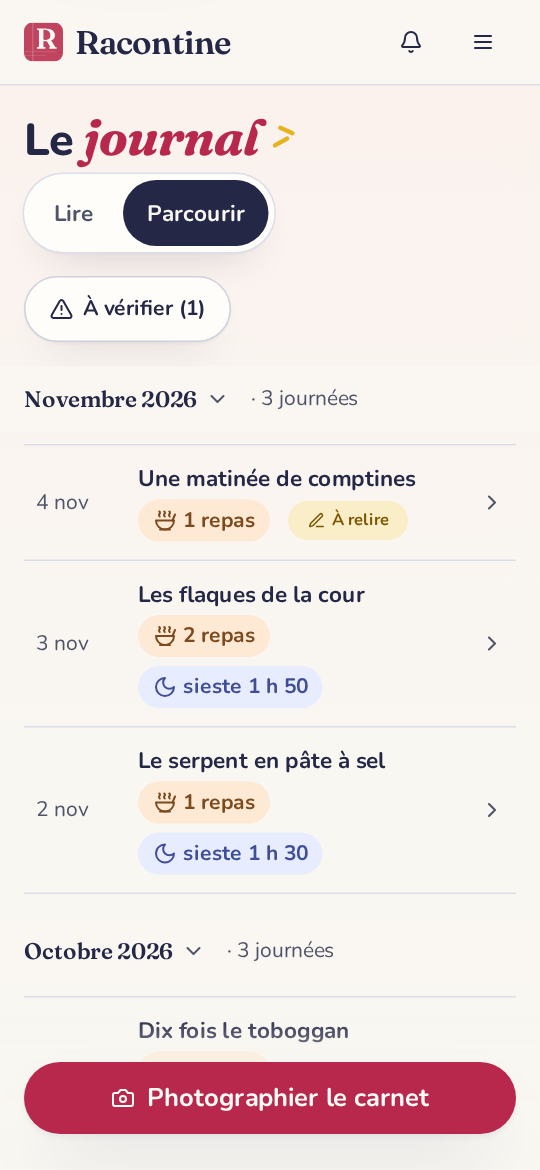
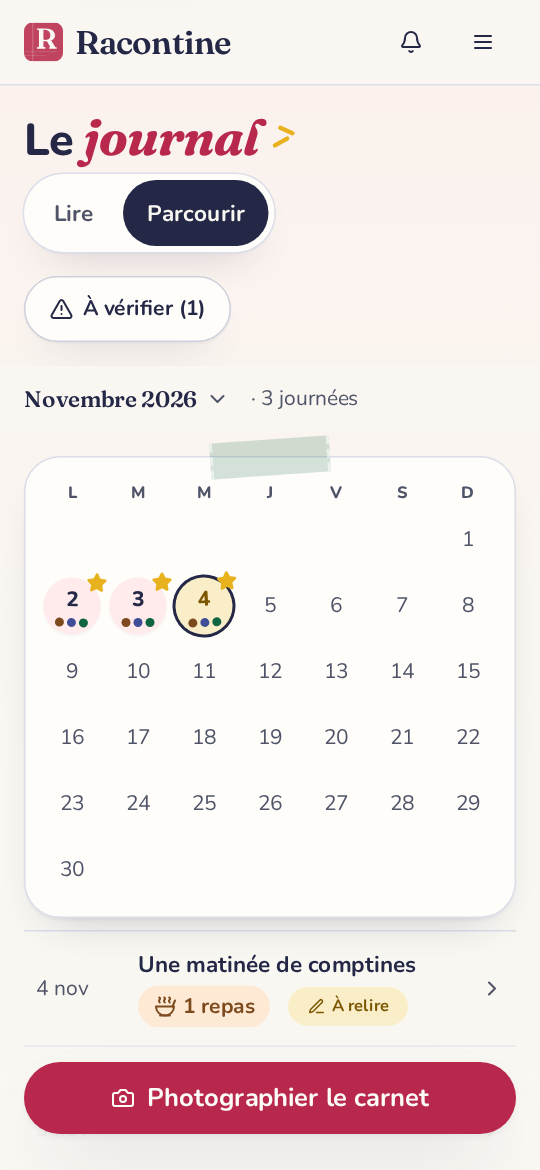
feat(journal): calendrier du mois en mode Parcourir (#142)
La maquette « carnet de souvenirs » proposait un calendrier pour
retrouver une journée d'un coup d'œil ; Parcourir n'avait qu'une liste.

- MonthCalendar sous l'en-tête collant de chaque mois, en mode Parcourir
  seulement : une case par journée racontée, lien direct vers la journée.
- Case groseille douce, ou fond à relire si la journée n'est pas publiée ;
  pastilles de la couleur des moments, étoile si temps fort, anneau
  groseille si non lue, compteur si plusieurs enfants le même jour.
- Libellé accessible complet par case (date, titres, nouveau, à relire) ;
  jours vides masqués aux lecteurs d'écran.
- DESIGN.md, README et capture Parcourir mis à jour.

Vérifié en local avec données fictives : gestionnaire et lectrice, clair
et sombre, clic sur un jour qui ouvre la bonne journée.

diff --git a/web/src/features/journal/MonthCalendar.tsx b/web/src/features/journal/MonthCalendar.tsx
@@ -1,0 +1,144 @@
+import { useState } from "react";
+import { Link } from "react-router-dom";
+import { Star } from "lucide-react";
+import type { Entry, ItemType } from "@/lib/types";
+import { capitalize, fr, fullDate } from "@/lib/format";
+import { ITEM_KINDS } from "@/lib/items";
+import { ITEM_DOT } from "@/lib/ui";
+import { cn } from "@/lib/utils";
+import { isUnread } from "./EntryCard";
+
+const WEEKDAYS = ["L", "M", "M", "J", "V", "S", "D"];
+
+function pad(n: number): string {
+  return String(n).padStart(2, "0");
+}
+
+function typesOf(entries: Entry[]): ItemType[] {
+  const present = new Set(entries.flatMap((e) => e.items.map((i) => i.type)));
+  return ITEM_KINDS.map((k) => k.type).filter((t) => present.has(t));
+}
+
+function dayLabelFor(iso: string, entries: Entry[]): string {
+  const date = capitalize(fullDate(iso));
+  const titles = entries
+    .map((e) => (e.title ? fr(e.title) : "journée sans titre"))
+    .join(", ");
+  const unread = entries.some(isUnread) ? ", nouveau" : "";
+  const draft = entries.some((e) => e.status !== "published")
+    ? ", à relire"
+    : "";
+  return `${date} : ${titles}${unread}${draft}`;
+}
+
+export function MonthCalendar({
+  month,
+  entries,
+}: {
+  month: string;
+  entries: Entry[];
+}) {
+  const [today] = useState(() => new Date());
+  const [y, m] = month.split("-").map(Number);
+  const first = new Date(y, m - 1, 1);
+  const lead = (first.getDay() + 6) % 7;
+  const days = new Date(y, m, 0).getDate();
+  const todayIso = `${today.getFullYear()}-${pad(today.getMonth() + 1)}-${pad(today.getDate())}`;
+
+  const byDay = new Map<string, Entry[]>();
+  for (const e of entries) {
+    const list = byDay.get(e.date);
+    if (list) list.push(e);
+    else byDay.set(e.date, [e]);
+  }
+
+  return (
+    <div className="tape tape-green mt-4 mb-2 rounded-2xl border bg-card px-3 pt-4 pb-3 shadow-card">
+      <div
+        aria-hidden="true"
+        className="grid grid-cols-7 gap-1.5 pb-1 text-center text-xs font-extrabold text-muted-foreground"
+      >
+        {WEEKDAYS.map((d, i) => (
+          <span key={i}>{d}</span>
+        ))}
+      </div>
+      <ol
+        aria-label="Les journées du mois"
+        className="grid grid-cols-7 gap-1.5"
+      >
+        {Array.from({ length: lead }, (_, i) => (
+          <li key={`v${i}`} aria-hidden="true" />
+        ))}
+        {Array.from({ length: days }, (_, i) => {
+          const day = i + 1;
+          const iso = `${month}-${pad(day)}`;
+          const list = byDay.get(iso);
+          const isToday = iso === todayIso;
+          if (!list)
+            return (
+              <li
+                key={iso}
+                aria-hidden="true"
+                className={cn(
+                  "grid aspect-square place-items-center rounded-xl text-meta",
+                  "text-muted-foreground",
+                  isToday && "ring-2 ring-border",
+                )}
+                data-tabular
+              >
+                {day}
+              </li>
+            );
+          const unread = list.some(isUnread);
+          const draft = list.some((e) => e.status !== "published");
+          const highlight = list.some((e) => e.highlight);
+          const types = typesOf(list).slice(0, 3);
+          return (
+            <li key={iso}>
+              <Link
+                to={`/entries/${list[0].id}`}
+                aria-label={dayLabelFor(iso, list)}
+                className={cn(
+                  "relative flex aspect-square w-full flex-col items-center justify-center gap-0.5 rounded-xl text-meta font-extrabold shadow-card transition-transform dur-press ease-carnet outline-none active:scale-95 focus-visible:ring-2 focus-visible:ring-ring",
+                  draft
+                    ? "bg-warning-bg text-warning"
+                    : "bg-primary-soft text-foreground",
+                  i % 3 === 0 ? "-rotate-3" : i % 3 === 1 ? "rotate-2" : "",
+                  unread && "ring-2 ring-primary",
+                  isToday && !unread && "ring-2 ring-foreground",
+                )}
+                data-tabular
+              >
+                {highlight && (
+                  <Star
+                    aria-hidden="true"
+                    className="absolute -top-1 -right-1 size-3.5 fill-spark text-spark"
+                  />
+                )}
+                <span>{day}</span>
+                {types.length > 0 && (
+                  <span aria-hidden="true" className="flex gap-0.5">
+                    {types.map((t) => (
+                      <span
+                        key={t}
+                        className={cn("size-1.5 rounded-full", ITEM_DOT[t])}
+                      />
+                    ))}
+                  </span>
+                )}
+                {list.length > 1 && (
+                  <span
+                    aria-hidden="true"
+                    className="absolute -bottom-1 -left-1 grid size-4 place-items-center rounded-full bg-foreground text-[0.625rem] leading-none text-background"
+                  >
+                    {list.length}
+                  </span>
+                )}
+              </Link>
+            </li>
+          );
+        })}
+      </ol>
+    </div>
+  );
+}

diff --git a/web/src/pages/Timeline.tsx b/web/src/pages/Timeline.tsx
@@ -18,6 +18,7 @@ import { Button } from "@/components/ui/button";
 import { SegmentedControl } from "@/components/SegmentedControl";
 import { EntryCard } from "@/features/journal/EntryCard";
 import { EntryRow } from "@/features/journal/EntryRow";
+import { MonthCalendar } from "@/features/journal/MonthCalendar";
 import {
   ChildFilter,
   MonthJump,
@@ -581,6 +582,9 @@ export default function Timeline() {
                 </p>
               </div>
             </div>
+            {mode === "parcourir" && (
+              <MonthCalendar month={m.key} entries={m.entries} />
+            )}
             <ol
               className={cn(
                 "mt-2 flex flex-col",

diff --git a/DESIGN.md b/DESIGN.md
@@ -319,6 +319,7 @@ shadcn `new-york`, `radix-ui`, `lucide-react` (45 imports). Installés :
 | `Highlight` | le temps fort en post-it jaune incliné, étoile `--spark` | `features/journal/EntryCard.tsx` |
 | `NewSticker` | gommette « Nouveau » groseille sur une journée non lue | `features/journal/EntryCard.tsx` |
 | `Avatar` | initiales sur pastille de feutre (teinte stable par nom), posée par défaut dans `MemberRow` | `components/MemberRow.tsx` |
+| `MonthCalendar` | en mode Parcourir, un calendrier par mois sous l'en-tête collant : case groseille douce par journée (fond `warning-bg` si à relire), pastilles `ITEM_DOT` des moments, étoile si temps fort, anneau groseille si non lue ; chaque case est un lien vers la journée | `features/journal/MonthCalendar.tsx` |
 | `CarnetSticker` | le petit carnet dessiné (portes de connexion, capture vide) | `components/CarnetSticker.tsx` |
 | `MemberRow` | ligne de membre partagée (Proches, Partager, Administration), avatar à initiales, rôle verrouillé en texte | `components/MemberRow.tsx` |
 | `Label` | Pas de `leading-none` | `ui/label.tsx` |

diff --git a/README.md b/README.md
@@ -61,7 +61,7 @@ Les grands-parents savent enfin quoi demander au téléphone.
   <img src="docs/screenshots/05-parcourir.png" width="300" alt="Vue compacte du journal, une journée par ligne">
 </p>
 
-Passez en vue compacte pour remonter les semaines, ou sautez directement à un mois.
+Passez en vue compacte : un calendrier par mois montre les journées racontées, il suffit de toucher un jour. Ou sautez directement à un mois.
 Avec plusieurs enfants, chacun a son carnet.
 
 ## Vous choisissez qui lit
